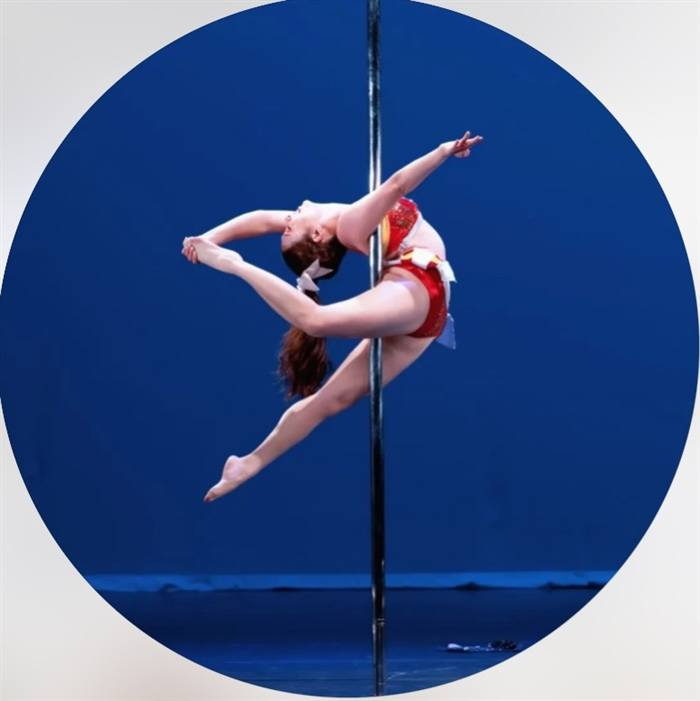
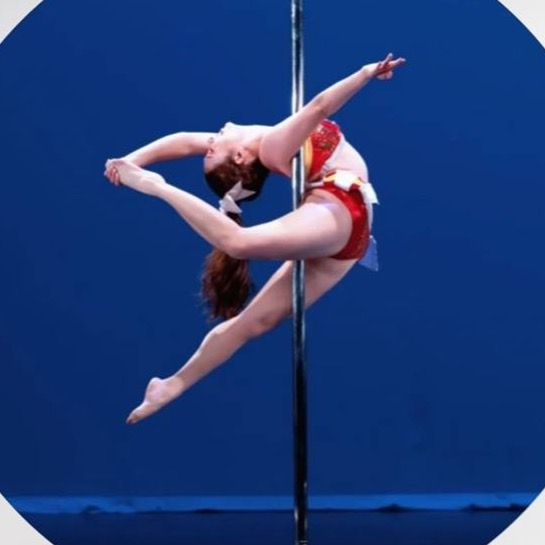
Fix white halo around About section portrait photo
portrait.jpg had its own baked-in circular vignette smaller than the
CSS border-radius:50% clip circle, leaving a white ring visible around
the dancer. Cropped the source image so its circle fills the frame
edge-to-edge and updated the width/height attributes to match.

diff --git a/joann-studio.html b/joann-studio.html
@@ -1085,7 +1085,7 @@
       <div class="about__signoff">— Joann Studio</div>
     </div>
     <div class="about__portrait">
-      <img class="about__portrait-main" src="images/portrait.jpg" alt="舞者在鋼管上完成後彎跳躍動作，展現空中課程的訓練成果" width="700" height="701" loading="lazy" decoding="async" />
+      <img class="about__portrait-main" src="images/portrait.jpg" alt="舞者在鋼管上完成後彎跳躍動作，展現空中課程的訓練成果" width="545" height="545" loading="lazy" decoding="async" />
       <img class="about__portrait-detail" src="images/barre.jpg" alt="教室內的芭蕾把桿、Joann Studio 牆面標誌、爵士鞋與金色彩球" width="1100" height="1213" loading="lazy" decoding="async" />
     </div>
   </div>
